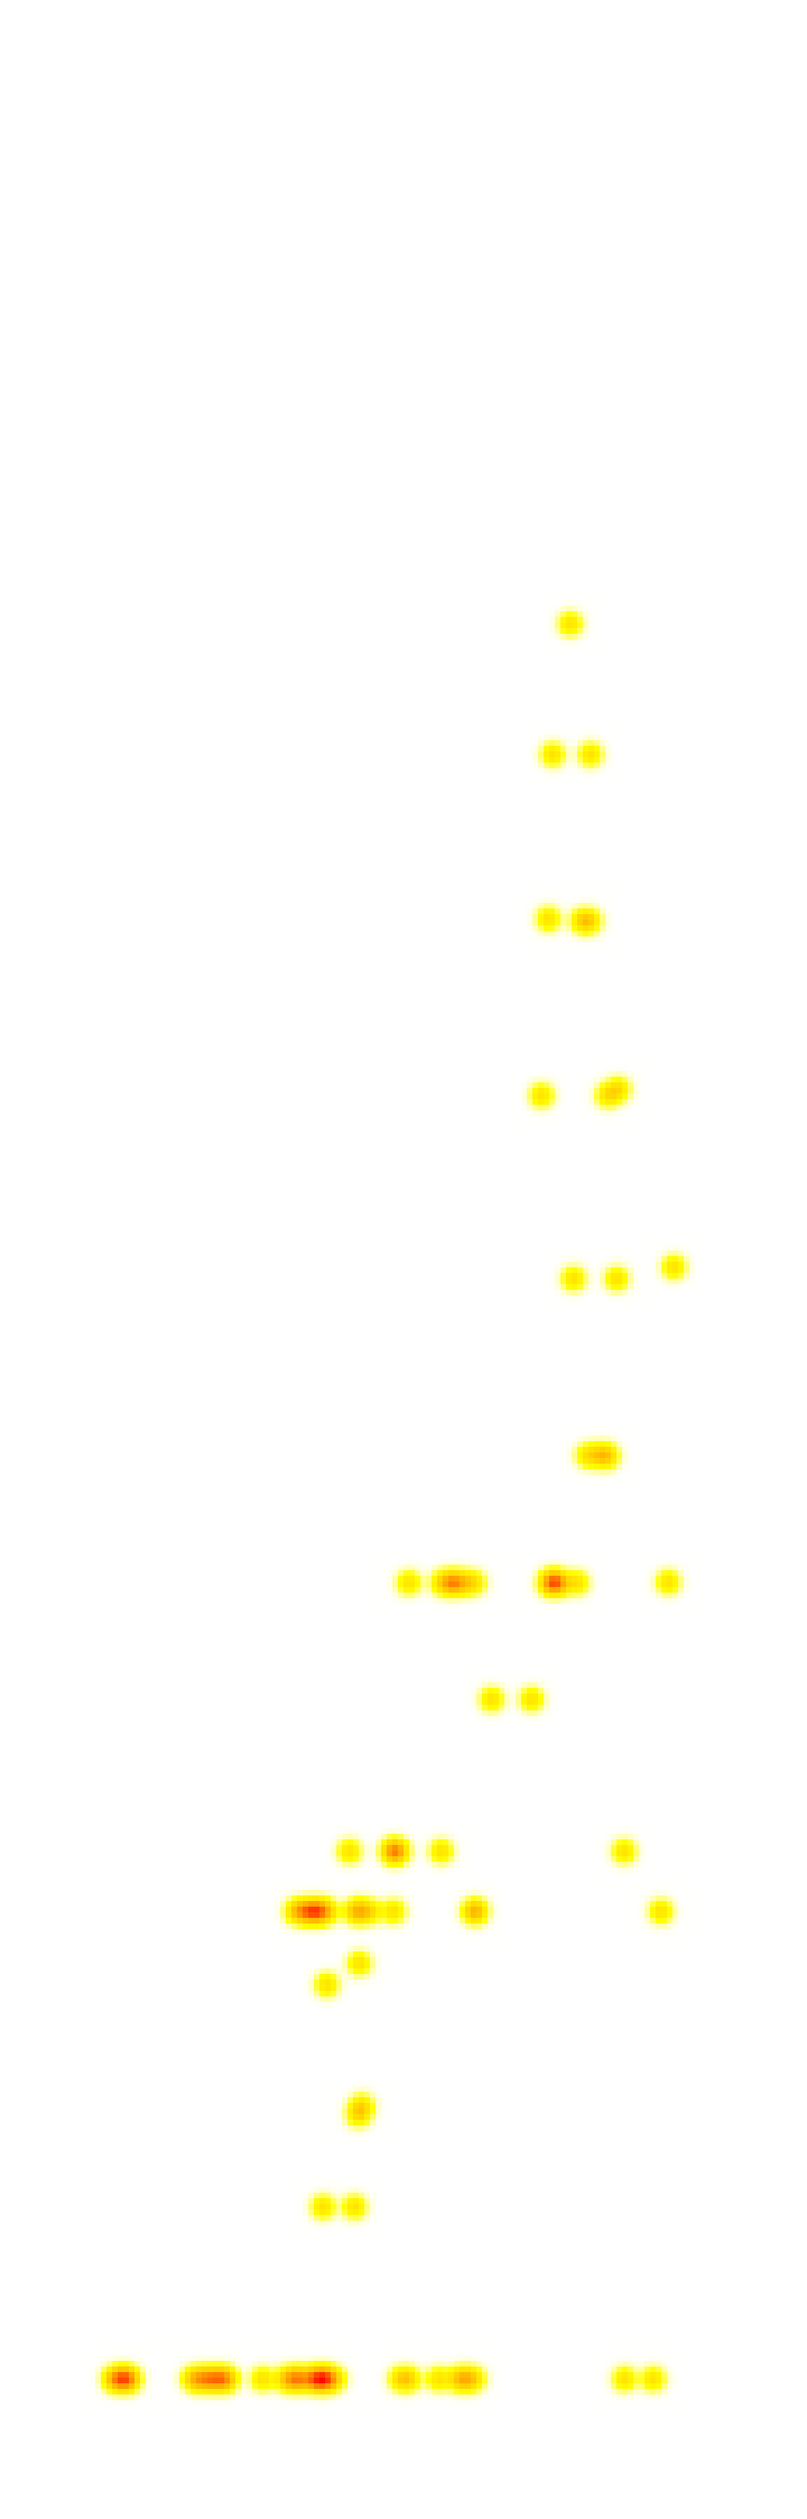
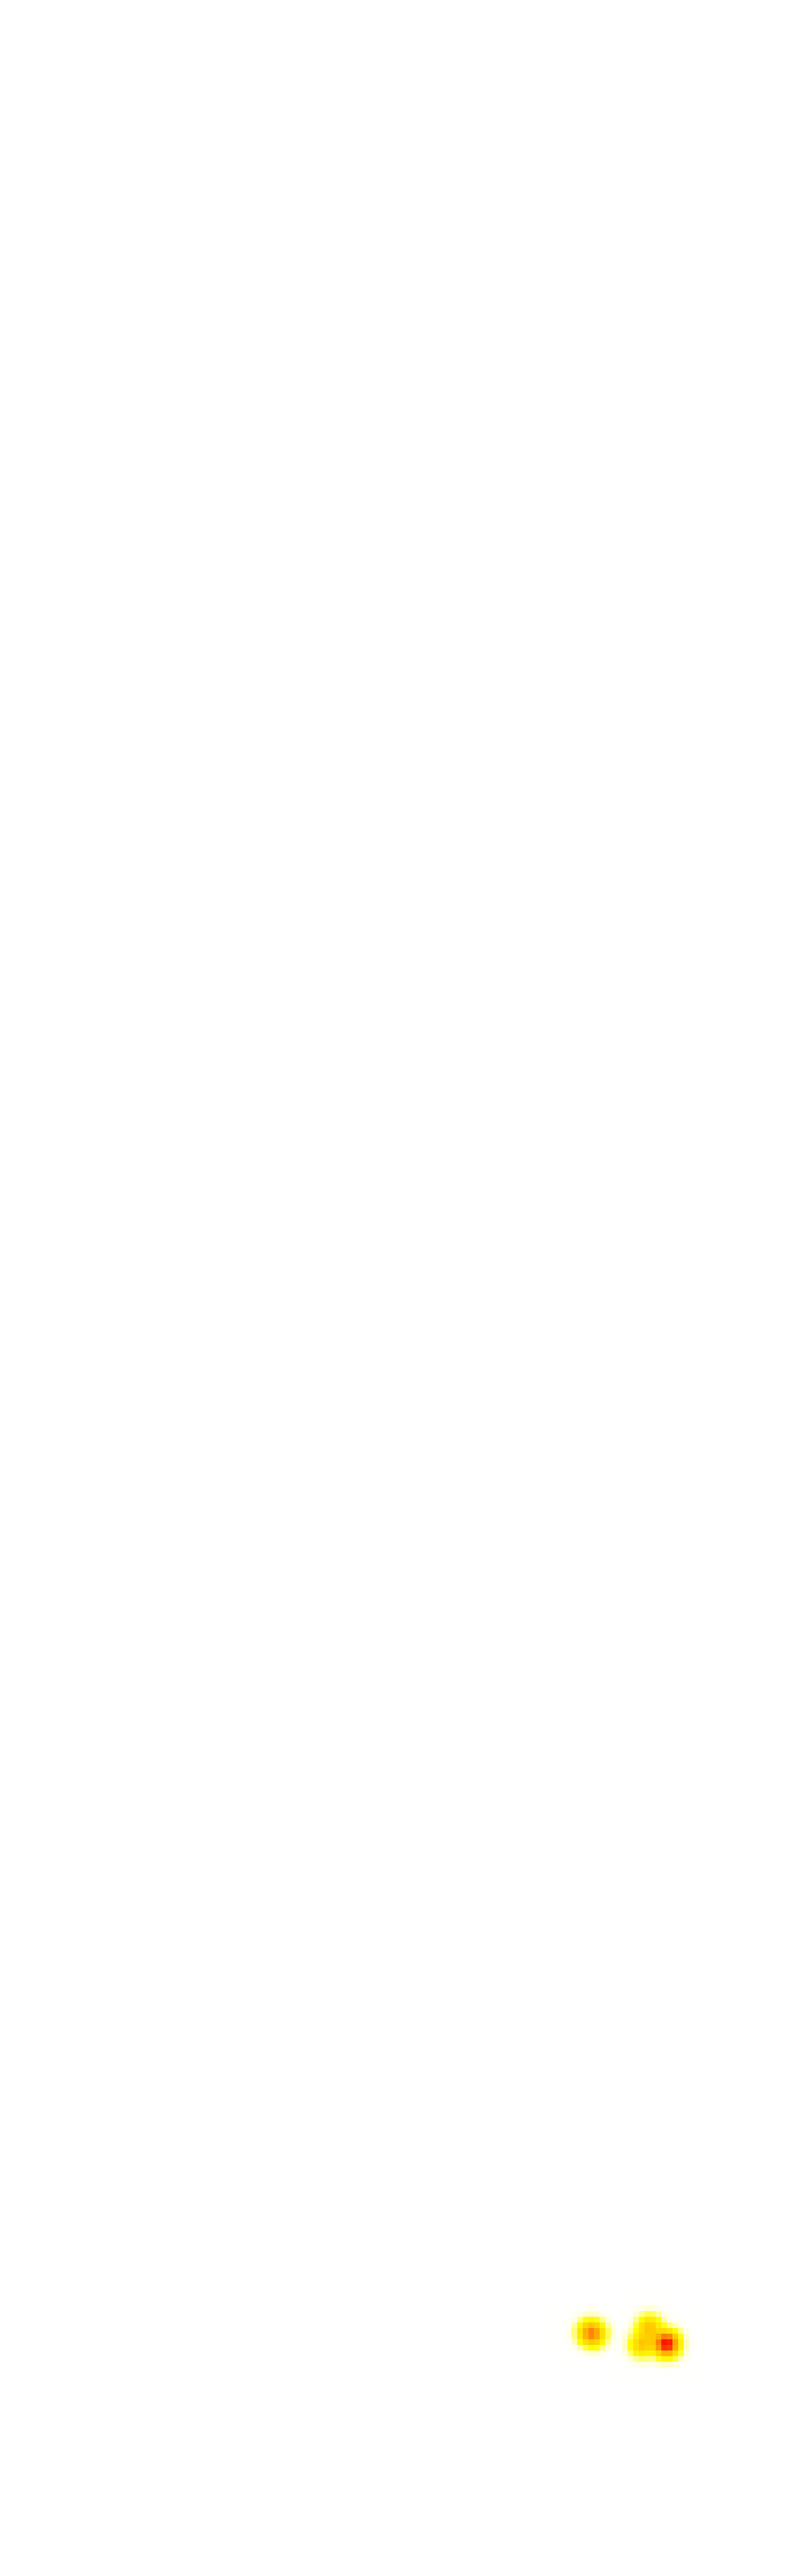
screenshot robiony przez kod pythonowy

diff --git a/make_screen_shot.js b/make_screen_shot.js
@@ -10,5 +10,6 @@ const puppeteer = require('puppeteer');
   });
   await page.screenshot({ path: 'full_page_screenshot.png', fullPage: true });
   await browser.close();
+  console.log("Screenshot zrobiony");
   process.exit();
 })();

diff --git a/image2.py b/image2.py
@@ -1,34 +1,34 @@
 import cv2
 import numpy as np
+def create_opacity_map_on_screen():
+    # Load heatmap and screen images
+    heatmap = cv2.imread('zapisana_heatmapa.png')
+    screen = cv2.imread('full_page_screenshot.png')
 
-# Load heatmap and screen images
-heatmap = cv2.imread('zapisana_heatmapa.png')
-screen = cv2.imread('screen.png')
+    # Resize heatmap to match screen size if necessary
+    heatmap = cv2.resize(heatmap, (screen.shape[1], screen.shape[0]))
 
-# Resize heatmap to match screen size if necessary
-heatmap = cv2.resize(heatmap, (screen.shape[1], screen.shape[0]))
+    # Convert heatmap to grayscale
+    heatmap_gray = cv2.cvtColor(heatmap, cv2.COLOR_BGR2GRAY)
 
-# Convert heatmap to grayscale
-heatmap_gray = cv2.cvtColor(heatmap, cv2.COLOR_BGR2GRAY)
+    # Threshold the heatmap to create a binary mask
+    _, mask = cv2.threshold(heatmap_gray, 240, 255, cv2.THRESH_BINARY_INV)
 
-# Threshold the heatmap to create a binary mask
-_, mask = cv2.threshold(heatmap_gray, 240, 255, cv2.THRESH_BINARY_INV)
+    # Invert the mask
+    mask_inv = cv2.bitwise_not(mask)
 
-# Invert the mask
-mask_inv = cv2.bitwise_not(mask)
+    # Apply the mask to the screen image to retain only non-white pixels from the heatmap
+    result = cv2.bitwise_and(screen, screen, mask=mask)
 
-# Apply the mask to the screen image to retain only non-white pixels from the heatmap
-result = cv2.bitwise_and(screen, screen, mask=mask)
+    # Set the rest of the pixels to white
+    result[mask == 0] = [255, 255, 255]
 
-# Set the rest of the pixels to white
-result[mask == 0] = [255, 255, 255]
+    # Save the resulting image to a file
+    cv2.imwrite('opacity_map.jpg', result)
 
-# Save the resulting image to a file
-cv2.imwrite('opacity_map.jpg', result)
-
-# Display the result
-cv2.imshow('Result', result)
-cv2.waitKey(0)
-cv2.destroyAllWindows()
+    # Display the result
+    #cv2.imshow('Result', result)
+    #cv2.waitKey(0)
+    #cv2.destroyAllWindows()
 
 

diff --git a/eyetracking.py b/eyetracking.py
@@ -6,6 +6,8 @@ import time
 from scipy.ndimage import gaussian_filter
 from scroll import *
 from image import *
+from image2 import *
+import subprocess
 
 # Ustawienia ekranu
 SCREEN_WIDTH = 1500
@@ -155,8 +157,12 @@ def interpolate_calibration_data(left_eye_position, right_eye_position, *wielomi
 
     return x, y
 
+result = subprocess.run(['node', 'make_screen_shot.js'], capture_output=True, text=True)
 
-# Inicjalizacja eyetrackera
+wyjscie = result.stdout
+
+print(wyjscie)
+
 gaze = GazeTracking()
 webcam = cv2.VideoCapture(0)
 
@@ -256,6 +262,7 @@ while running:
             draw_heatmap_from_points(points_for_heatmap, page_width, page_height)
             pygame.image.save(screen, 'zapisana_heatmapa.png')
             create_heatmap_on_screen()
+            create_opacity_map_on_screen()
             pygame.quit()
             webcam.release()
             break

diff --git a/image.py b/image.py
@@ -21,4 +21,4 @@ def create_heatmap_on_screen():
     # Or display the result
     #cv2.imshow('Blended Image', blended_image)
     #cv2.waitKey(0)
-    cv2.destroyAllWindows()
+    #cv2.destroyAllWindows()
